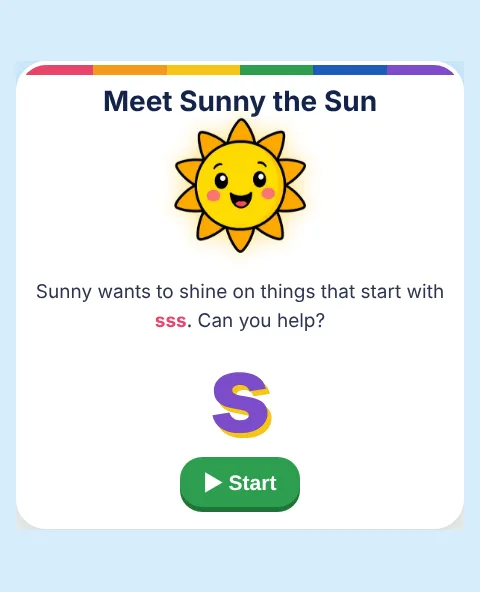
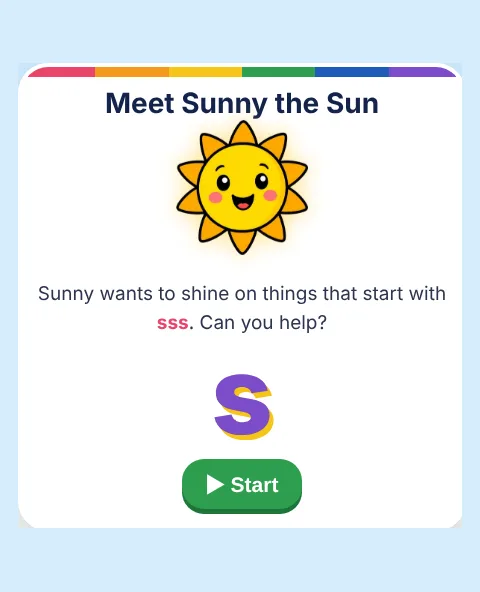
Phonics page: title under 60 characters; clean card image edge (reviewer)
Claude-Session: https://claude.ai/code/session_01M3FAoM8EiC62gDFZpX6zZ1

Changed region(s): [[0.0312, 0.0912, 0.9688, 0.8514], [0.375, 0.6081, 0.6562, 0.8818]]

diff --git a/play/phonics/index.html b/play/phonics/index.html
@@ -3,7 +3,7 @@
 <head>
   <meta charset="UTF-8">
   <meta name="viewport" content="width=device-width, initial-scale=1">
-  <title>Phonics with Sunny: Free Letter Sound Lessons for Kids | VidyaPlay</title>
+  <title>Phonics with Sunny: Free Letter Sounds for Kids | VidyaPlay</title>
   <meta name="description" content="Free interactive phonics lessons for Nursery and LKG kids: learn letter sounds with Sunny the Sun. Listen, play, find and trace. No sign-up, works on phones.">
 
   <link rel="icon" href="../../favicon.ico" sizes="any">
@@ -19,7 +19,7 @@
   <!-- Share preview (WhatsApp, Facebook and others) -->
   <meta property="og:type" content="website">
   <meta property="og:site_name" content="VidyaPlay">
-  <meta property="og:title" content="Phonics with Sunny: Free Letter Sound Lessons for Kids | VidyaPlay">
+  <meta property="og:title" content="Phonics with Sunny: Free Letter Sounds for Kids | VidyaPlay">
   <meta property="og:description" content="Free interactive phonics lessons for Nursery and LKG kids: learn letter sounds with Sunny the Sun. Listen, play, find and trace. No sign-up, works on phones.">
   <meta property="og:url" content="https://vidyaplay.in/play/phonics/">
   <meta property="og:image" content="https://vidyaplay.in/images/og-vidyaplay.jpg">
